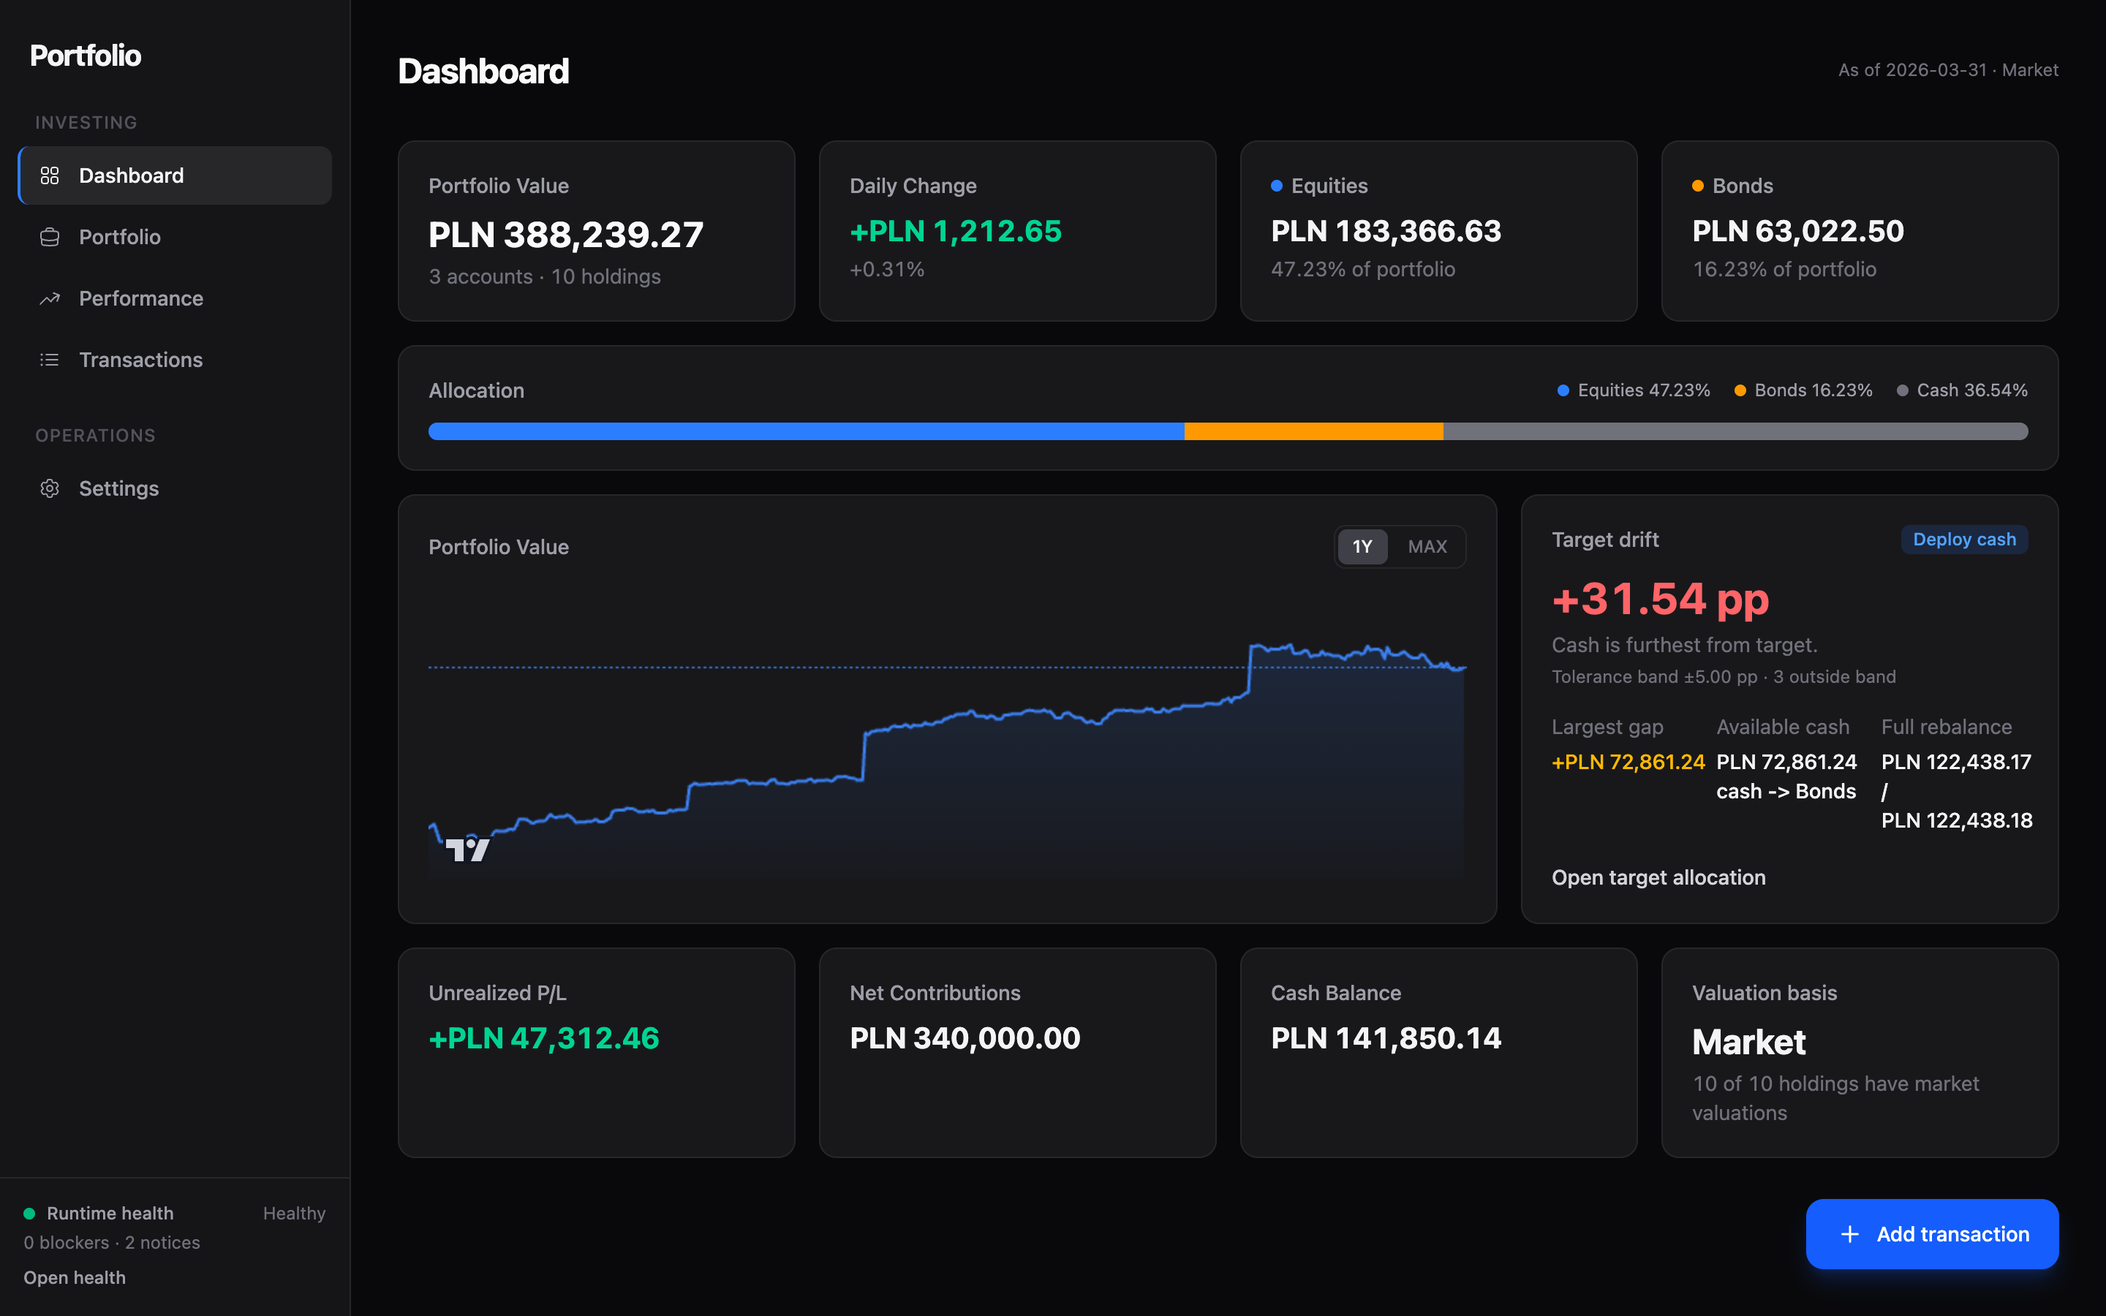
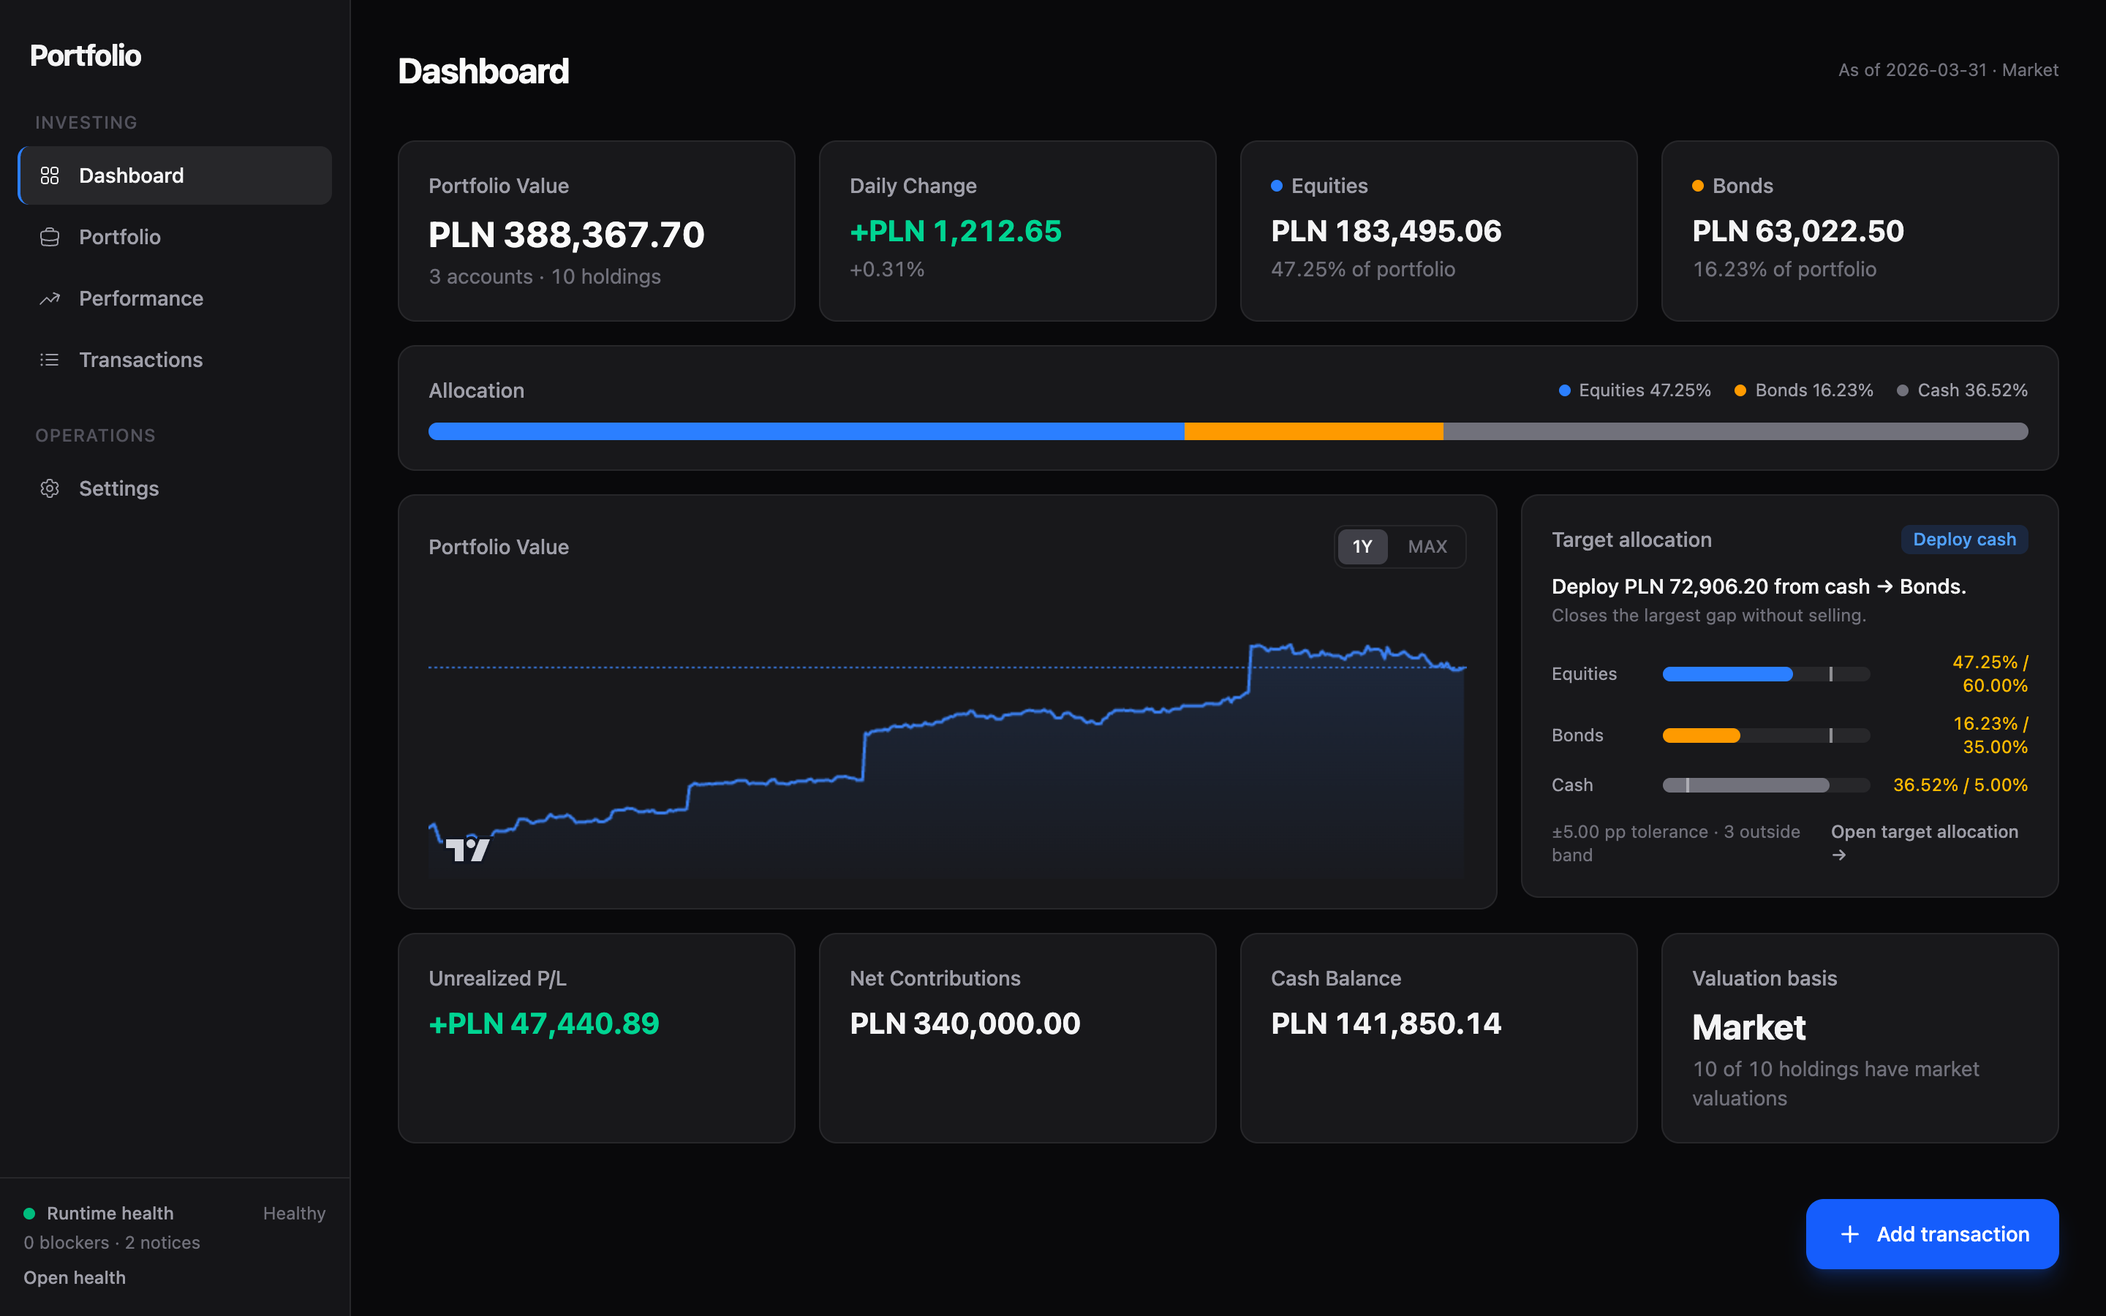
Redesign Target Drift panel into clear recommendation + per-bucket bars
Replace the unintuitive "+31.54 pp" hero and dense three-metric grid
with a human-readable recommendation ("Deploy PLN X from cash → Bonds")
followed by per-bucket progress bars showing actual vs target weight
with marker lines. Simplifies DashboardScreen by moving bucket
iteration into the card component itself.

diff --git a/apps/web/src/screens/dashboard/DashboardSections.tsx b/apps/web/src/screens/dashboard/DashboardSections.tsx
@@ -6,7 +6,7 @@ import { missingDataLabel } from '../../lib/availability'
 import type { PortfolioDataQualitySummary } from '../../lib/data-quality'
 import { formatCurrencyPln, formatPercent, formatSignedCurrencyPln } from '../../lib/format'
 import { labelAssetClass } from '../../lib/labels'
-import { t } from '../../lib/messages'
+import { formatMessage, t } from '../../lib/messages'
 import {
   describeAssetSliceValuation,
   describePortfolioValuationBasis,
@@ -187,30 +187,28 @@ export function DashboardHistoryCard({
 export function DashboardTargetDriftCard({
   isPolish,
   allocation,
-  mostOffTargetBucket,
-  rebalanceBucket,
   isLoading,
   isError,
   onRetry,
 }: {
   isPolish: boolean
   allocation: PortfolioAllocationSummary | undefined
-  mostOffTargetBucket: PortfolioAllocationBucket | null
-  rebalanceBucket: PortfolioAllocationBucket | null
   isLoading: boolean
   isError: boolean
   onRetry: () => void
 }) {
+  const buckets = allocation?.buckets.filter((b) => b.targetWeightPct != null) ?? []
+
   return (
     <div className={card}>
       <div className="mb-3 flex items-center justify-between">
         <div>
-          <h3 className="text-sm font-medium text-zinc-400">{t('dashboardSections.targetDrift')}</h3>
-          {allocation?.valuationState !== 'MARK_TO_MARKET' ? (
+          <h3 className="text-sm font-medium text-zinc-400">{t('dashboardSections.targetAllocation')}</h3>
+          {allocation?.valuationState && allocation.valuationState !== 'MARK_TO_MARKET' ? (
             <p className="mt-1 text-xs text-zinc-500">
-              {allocation?.valuationState === 'BOOK_ONLY'
+              {allocation.valuationState === 'BOOK_ONLY'
                 ? t('dashboardSections.allocationBookBasis')
-                : allocation?.valuationState === 'STALE'
+                : allocation.valuationState === 'STALE'
                   ? t('dashboardSections.allocationStale')
                   : t('dashboardSections.allocationMixed')}
             </p>
@@ -250,71 +248,99 @@ export function DashboardTargetDriftCard({
         />
       ) : (
         <div className="space-y-4">
-          <div>
-            <p className={`text-2xl font-bold tabular-nums sm:text-3xl ${driftTone(mostOffTargetBucket?.driftPctPoints)}`}>
-              {mostOffTargetBucket
-                ? formatPercent(mostOffTargetBucket.driftPctPoints, {
-                    signed: true,
-                    maximumFractionDigits: 2,
-                    suffix: ' pp',
-                  })
-                : '0.00 pp'}
-            </p>
-            <p className="mt-1 text-sm text-zinc-500">
-              {mostOffTargetBucket
-                ? mostOffTargetBucket.withinTolerance
-                  ? isPolish
-                    ? `${labelAssetClass(mostOffTargetBucket.assetClass)} są najdalej od celu, ale nadal mieszczą się w paśmie.`
-                    : `${labelAssetClass(mostOffTargetBucket.assetClass)} is furthest from target, but still inside the configured band.`
-                  : isPolish
-                    ? `${labelAssetClass(mostOffTargetBucket.assetClass)} są najdalej od celu.`
-                    : `${labelAssetClass(mostOffTargetBucket.assetClass)} is furthest from target.`
-                : t('dashboardSections.bucketsAligned')}
-            </p>
-            <p className="mt-1 text-xs text-zinc-500">
-              {t('dashboardSections.toleranceBand')} ±{formatPercent(allocation.toleranceBandPctPoints, {
-                maximumFractionDigits: 2,
-                suffix: ' pp',
-              })} · {allocation.breachedBucketCount} {t('dashboardSections.outsideBand')}
-            </p>
+          {/* Hero recommendation */}
+          <RecommendationHero allocation={allocation} />
+
+          {/* Per-bucket bars */}
+          <div className="space-y-2.5">
+            {buckets.map((bucket) => (
+              <AllocationBucketBar key={bucket.assetClass} bucket={bucket} />
+            ))}
           </div>
 
-          <dl className="grid grid-cols-1 gap-3 text-sm sm:grid-cols-3">
-            <div>
-              <dt className="text-zinc-500">{t('dashboardSections.largestGap')}</dt>
-              <dd className={`mt-1 font-medium ${gapTone(rebalanceBucket?.gapValuePln)}`}>
-                {rebalanceBucket ? formatSignedCurrencyPln(rebalanceBucket.gapValuePln) : formatSignedCurrencyPln(0)}
-              </dd>
-            </div>
-            <div>
-              <dt className="text-zinc-500">
-                {allocation.recommendedAction === 'DEPLOY_EXISTING_CASH'
-                  ? t('dashboardSections.availableCash')
-                  : t('dashboardSections.nextContribution')}
-              </dt>
-              <dd className="mt-1 font-medium text-zinc-100">
-                {allocation.recommendedAssetClass && Number(allocation.recommendedContributionPln) > 0
-                  ? allocation.recommendedAction === 'DEPLOY_EXISTING_CASH'
-                    ? isPolish
-                      ? `${formatCurrencyPln(allocation.recommendedContributionPln)} gotówki -> ${labelAssetClass(allocation.recommendedAssetClass)}`
-                      : `${formatCurrencyPln(allocation.recommendedContributionPln)} cash -> ${labelAssetClass(allocation.recommendedAssetClass)}`
-                    : `${formatCurrencyPln(allocation.recommendedContributionPln)} -> ${labelAssetClass(allocation.recommendedAssetClass)}`
-                  : t('dashboardSections.noRebalanceNeeded')}
-              </dd>
-            </div>
-            <div>
-              <dt className="text-zinc-500">{t('dashboardSections.fullRebalance')}</dt>
-              <dd className="mt-1 font-medium text-zinc-100">
-                {formatCurrencyPln(allocation.fullRebalanceBuyAmountPln)} / {formatCurrencyPln(allocation.fullRebalanceSellAmountPln)}
-              </dd>
-            </div>
-          </dl>
-
-          <Link to="/settings#targets" className="inline-flex text-sm font-medium text-zinc-300 transition-colors hover:text-zinc-100">
-            {t('dashboardSections.openTargetAllocation')}
-          </Link>
+          {/* Meta + link */}
+          <div className="flex items-center justify-between">
+            <p className="text-xs text-zinc-500">
+              ±{formatPercent(allocation.toleranceBandPctPoints, { maximumFractionDigits: 2, suffix: ' pp' })} {t('dashboardSections.toleranceMeta')} · {allocation.breachedBucketCount} {t('dashboardSections.outsideBand')}
+            </p>
+            <Link to="/settings#targets" className="text-xs font-medium text-zinc-400 transition-colors hover:text-zinc-100">
+              {t('dashboardSections.openTargetAllocation')} →
+            </Link>
+          </div>
         </div>
       )}
+    </div>
+  )
+}
+
+function RecommendationHero({ allocation }: { allocation: PortfolioAllocationSummary }) {
+  const amount = formatCurrencyPln(allocation.recommendedContributionPln)
+  const assetClass = allocation.recommendedAssetClass ? labelAssetClass(allocation.recommendedAssetClass) : ''
+  const band = formatPercent(allocation.toleranceBandPctPoints, { maximumFractionDigits: 2, suffix: ' pp' })
+  const remainingGap = formatCurrencyPln(allocation.remainingContributionGapPln)
+
+  let hero: string
+  let subtitle: string | null = null
+
+  switch (allocation.recommendedAction) {
+    case 'WITHIN_TOLERANCE':
+      hero = formatMessage(t('dashboardSections.withinToleranceHero'), { band })
+      break
+    case 'DEPLOY_EXISTING_CASH':
+      hero = formatMessage(t('dashboardSections.deployCashHero'), { amount, assetClass })
+      subtitle = t('dashboardSections.deployCashSub')
+      break
+    case 'WAIT_FOR_NEXT_CONTRIBUTION':
+      hero = formatMessage(t('dashboardSections.contributionHero'), { amount, assetClass })
+      subtitle = formatMessage(t('dashboardSections.contributionSub'), { amount: remainingGap })
+      break
+    case 'FULL_REBALANCE':
+      hero = formatMessage(t('dashboardSections.fullRebalanceHero'), { amount: formatCurrencyPln(allocation.fullRebalanceBuyAmountPln) })
+      subtitle = t('dashboardSections.fullRebalanceSub')
+      break
+    default:
+      hero = ''
+  }
+
+  return (
+    <div>
+      <p className="text-sm font-medium text-zinc-100">{hero}</p>
+      {subtitle && <p className="mt-0.5 text-xs text-zinc-500">{subtitle}</p>}
+    </div>
+  )
+}
+
+const bucketColor: Record<string, string> = {
+  EQUITIES: 'bg-blue-500',
+  BONDS: 'bg-amber-500',
+  CASH: 'bg-zinc-500',
+}
+
+function AllocationBucketBar({ bucket }: { bucket: PortfolioAllocationBucket }) {
+  const actual = Number(bucket.currentWeightPct)
+  const target = Number(bucket.targetWeightPct ?? 0)
+  const scale = Math.max(actual, target, 1) * 1.25
+  const barWidth = (actual / scale) * 100
+  const markerPos = (target / scale) * 100
+  const withinTolerance = bucket.withinTolerance
+  const color = bucketColor[bucket.assetClass] ?? 'bg-zinc-500'
+
+  return (
+    <div className="flex items-center gap-3">
+      <span className="w-16 shrink-0 text-xs text-zinc-400">{labelAssetClass(bucket.assetClass)}</span>
+      <div className="relative h-2.5 flex-1 overflow-hidden rounded-full bg-zinc-800">
+        <div
+          className={`h-full rounded-full ${color} transition-all`}
+          style={{ width: `${barWidth}%` }}
+        />
+        <div
+          className="absolute top-0 h-full w-0.5 bg-zinc-300/60"
+          style={{ left: `${markerPos}%` }}
+        />
+      </div>
+      <span className={`w-24 shrink-0 text-right text-xs tabular-nums ${withinTolerance ? 'text-zinc-400' : 'text-amber-400'}`}>
+        {formatPercent(actual)} / {formatPercent(target)}
+      </span>
     </div>
   )
 }
@@ -441,36 +467,6 @@ function AllocationLegend({ label, color, pct }: { label: string; color: string;
       {label} {formatPercent(pct)}
     </span>
   )
-}
-
-function driftTone(value: string | null | undefined) {
-  if (value == null) {
-    return 'text-zinc-100'
-  }
-
-  const numeric = Math.abs(Number(value))
-  if (Number.isNaN(numeric) || numeric === 0) {
-    return 'text-zinc-100'
-  }
-  if (numeric < 2) {
-    return 'text-emerald-400'
-  }
-  if (numeric < 5) {
-    return 'text-amber-400'
-  }
-  return 'text-red-400'
-}
-
-function gapTone(value: string | null | undefined) {
-  if (value == null) {
-    return 'text-zinc-100'
-  }
-
-  const numeric = Number(value)
-  if (Number.isNaN(numeric) || numeric === 0) {
-    return 'text-zinc-100'
-  }
-  return numeric > 0 ? 'text-amber-400' : 'text-sky-400'
 }
 
 function allocationActionVariant(action: string) {

diff --git a/apps/web/src/lib/messages/portfolio.ts b/apps/web/src/lib/messages/portfolio.ts
@@ -201,7 +201,7 @@ export const portfolioMessages = {
   'dashboardSections.noHistoryTitle': { pl: 'Brak historii portfela', en: 'No history data yet' },
   'dashboardSections.noHistoryDescription': { pl: 'Zapisz więcej transakcji albo wróć później do Wyników, aby zbudować krzywą portfela.', en: 'Record more transactions or open Performance later to build out the portfolio curve.' },
   'dashboardSections.historyEyebrow': { pl: 'Historia', en: 'History' },
-  'dashboardSections.targetDrift': { pl: 'Odchylenie od celu', en: 'Target drift' },
+  'dashboardSections.targetAllocation': { pl: 'Alokacja docelowa', en: 'Target allocation' },
   'dashboardSections.allocationBookBasis': { pl: 'Sygnał alokacji opiera się na wycenie księgowej.', en: 'Allocation signal is based on book basis.' },
   'dashboardSections.allocationStale': { pl: 'Sygnał alokacji korzysta z ostatnich dostępnych cen rynkowych.', en: 'Allocation signal uses the latest available market prices.' },
   'dashboardSections.allocationMixed': { pl: 'Sygnał alokacji łączy wyceny rynkowe z księgową.', en: 'Allocation signal mixes market prices with book basis.' },
@@ -213,15 +213,16 @@ export const portfolioMessages = {
   'dashboardSections.strategyEyebrow': { pl: 'Strategia', en: 'Strategy' },
   'dashboardSections.noTargetTitle': { pl: 'Brak skonfigurowanej alokacji docelowej', en: 'No target allocation configured' },
   'dashboardSections.noTargetDescription': { pl: 'Ustaw wagi docelowe, aby odblokować diagnostykę odchyleń, sugestie rebalansowania i benchmark alokacji docelowej.', en: 'Set target weights to unlock drift diagnostics, rebalance suggestions and the target-mix benchmark.' },
-  'dashboardSections.toleranceBand': { pl: 'Pasmo tolerancji', en: 'Tolerance band' },
+  'dashboardSections.toleranceMeta': { pl: 'tolerancja', en: 'tolerance' },
   'dashboardSections.outsideBand': { pl: 'poza zakresem', en: 'outside band' },
-  'dashboardSections.largestGap': { pl: 'Największa luka', en: 'Largest gap' },
-  'dashboardSections.availableCash': { pl: 'Dostępna gotówka', en: 'Available cash' },
-  'dashboardSections.nextContribution': { pl: 'Kolejna wpłata', en: 'Next contribution' },
-  'dashboardSections.noRebalanceNeeded': { pl: 'Brak potrzeby rebalansowania przez wpłatę', en: 'No rebalance contribution needed' },
-  'dashboardSections.fullRebalance': { pl: 'Pełny rebalance', en: 'Full rebalance' },
   'dashboardSections.openTargetAllocation': { pl: 'Otwórz alokację docelową', en: 'Open target allocation' },
-  'dashboardSections.bucketsAligned': { pl: 'Koszyki są zgodne ze skonfigurowaną alokacją.', en: 'Target buckets are aligned with the configured mix.' },
+  'dashboardSections.deployCashHero': { pl: 'Przesuń {amount} z gotówki \u2192 {assetClass}.', en: 'Deploy {amount} from cash \u2192 {assetClass}.' },
+  'dashboardSections.deployCashSub': { pl: 'Zamyka największą lukę bez sprzedaży.', en: 'Closes the largest gap without selling.' },
+  'dashboardSections.contributionHero': { pl: 'Skieruj następną wpłatę {amount} \u2192 {assetClass}.', en: 'Direct next {amount} contribution \u2192 {assetClass}.' },
+  'dashboardSections.contributionSub': { pl: '{amount} luki pozostaje po wpłacie.', en: '{amount} remaining gap after contribution.' },
+  'dashboardSections.fullRebalanceHero': { pl: 'Rebalancing wymaga transakcji za {amount}.', en: 'Rebalance requires {amount} in trades.' },
+  'dashboardSections.fullRebalanceSub': { pl: 'Wymaga sprzedaży przeważonych pozycji.', en: 'Requires selling overweight positions.' },
+  'dashboardSections.withinToleranceHero': { pl: 'Wszystkie klasy mieszczą się w tolerancji \u00b1{band}.', en: 'All buckets within \u00b1{band} tolerance.' },
   'dashboardSections.dataQuality': { pl: 'Jakość danych', en: 'Data quality' },
   'dashboardSections.openDataQuality': { pl: 'Otwórz szczegóły jakości danych', en: 'Open data quality details' },
   'dashboardSections.unrealizedPL': { pl: 'Niezrealizowany zysk/strata', en: 'Unrealized P/L' },

diff --git a/apps/web/src/screens/DashboardScreen.tsx b/apps/web/src/screens/DashboardScreen.tsx
@@ -85,33 +85,6 @@ export function DashboardScreen() {
   const cashBreakdownSubtitle = undefined
   const contributionBreakdownSubtitle = undefined
 
-  const configuredBuckets = useMemo(
-    () => allocationQuery.data?.buckets.filter((bucket) => bucket.targetWeightPct != null) ?? [],
-    [allocationQuery.data?.buckets],
-  )
-  const mostOffTargetBucket = useMemo(() => {
-    return configuredBuckets.reduce<typeof configuredBuckets[number] | null>((current, bucket) => {
-      if (!bucket.driftPctPoints) {
-        return current
-      }
-      if (current == null || Math.abs(Number(bucket.driftPctPoints)) > Math.abs(Number(current.driftPctPoints ?? 0))) {
-        return bucket
-      }
-      return current
-    }, null)
-  }, [configuredBuckets])
-  const rebalanceBucket = useMemo(() => {
-    return configuredBuckets.reduce<typeof configuredBuckets[number] | null>((current, bucket) => {
-      if (bucket.rebalanceAction !== 'BUY' || !bucket.gapValuePln || Number(bucket.gapValuePln) <= 0) {
-        return current
-      }
-      if (current == null || Number(bucket.gapValuePln) > Number(current.gapValuePln ?? 0)) {
-        return bucket
-      }
-      return current
-    }, null)
-  }, [configuredBuckets])
-
   function handleRetry() {
     void Promise.all([overviewQuery.refetch(), historyQuery.refetch()])
   }
@@ -206,8 +179,6 @@ export function DashboardScreen() {
           <DashboardTargetDriftCard
             isPolish={isPolish}
             allocation={allocationQuery.data}
-            mostOffTargetBucket={mostOffTargetBucket}
-            rebalanceBucket={rebalanceBucket}
             isLoading={allocationQuery.isLoading}
             isError={allocationQuery.isError}
             onRetry={() => void allocationQuery.refetch()}

diff --git a/apps/web/src/App.test.tsx b/apps/web/src/App.test.tsx
@@ -421,8 +421,8 @@ describe('App', () => {
     expect(await screen.findByText(/daily change/i)).toBeInTheDocument()
     expect((await screen.findAllByText(/requires full market valuation/i)).length).toBeGreaterThan(0)
     expect(await screen.findByText(/valuation basis/i)).toBeInTheDocument()
-    expect(await screen.findByText(/-0.48 pp/i)).toBeInTheDocument()
-    expect(await screen.findByText(/inside the configured band/i)).toBeInTheDocument()
+    expect(await screen.findByText(/within.*±5\.00 pp.*tolerance/i)).toBeInTheDocument()
+    expect(await screen.findByText(/79.52% \/ 80.00%/)).toBeInTheDocument()
   })
 
   it('shows the login gate when password auth is enabled', async () => {
